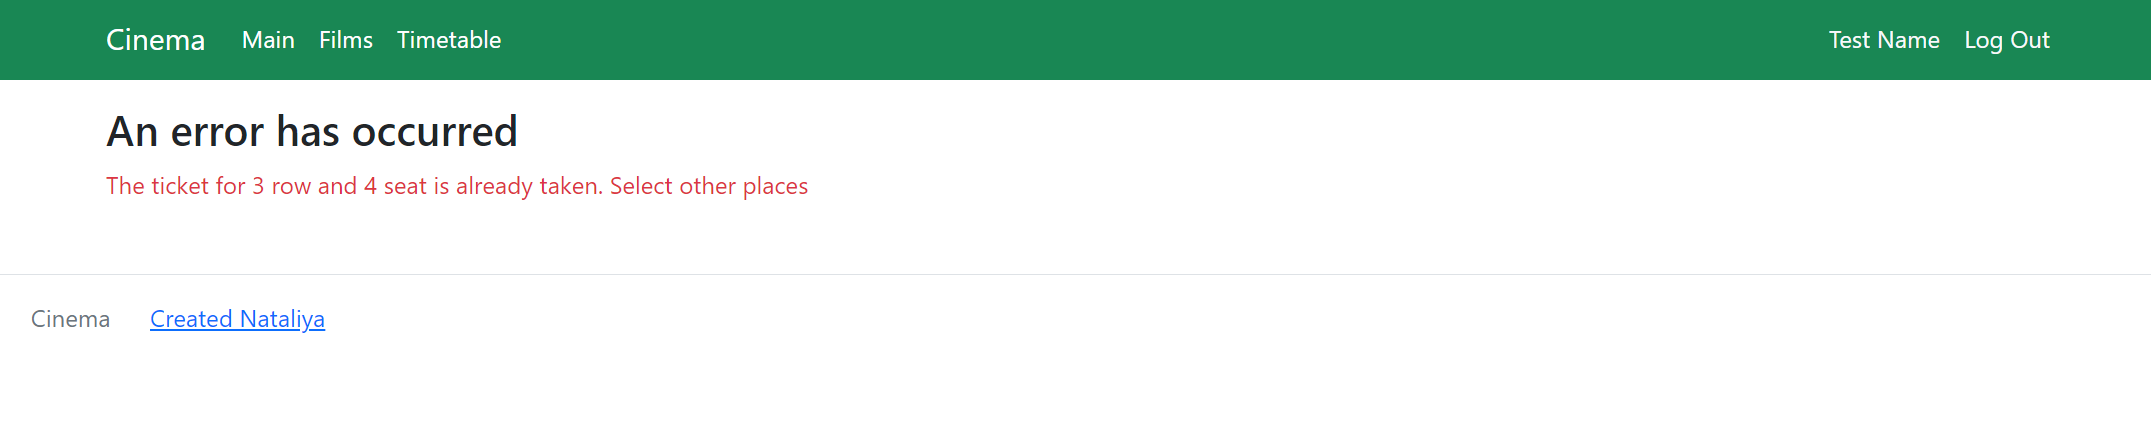
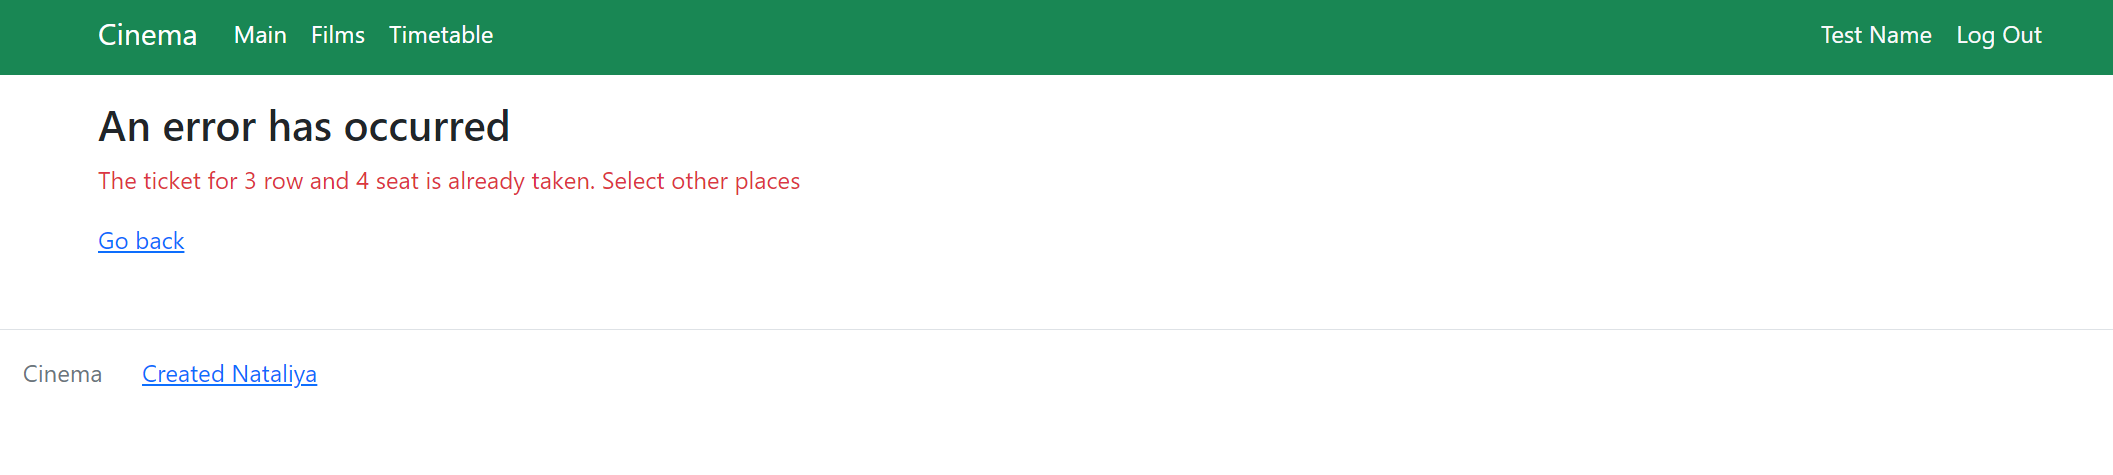
replace PostMapping buy method, change redirect page

diff --git a/src/main/resources/templates/errors/409.html b/src/main/resources/templates/errors/409.html
@@ -9,7 +9,7 @@
     <script src="https://cdn.jsdelivr.net/npm/@popperjs/core@2.11.6/dist/umd/popper.min.js" integrity="sha384-oBqDVmMz9ATKxIep9tiCxS/Z9fNfEXiDAYTujMAeBAsjFuCZSmKbSSUnQlmh/jp3" crossorigin="anonymous"></script>
     <script src="https://cdn.jsdelivr.net/npm/bootstrap@5.2.3/dist/js/bootstrap.min.js" integrity="sha384-cuYeSxntonz0PPNlHhBs68uyIAVpIIOZZ5JqeqvYYIcEL727kskC66kF92t6Xl2V" crossorigin="anonymous"></script>
 
-    <title>Error 404</title>
+    <title>Error 409</title>
 </head>
 <body>
 <div class="container-fluid p-0">
@@ -17,6 +17,7 @@
     <div class="container">
         <h3 class="mt-3">An error has occurred</h3>
         <p class="text-danger" th:text="${message}"></p>
+        <a href="javascript:history.back()">Go back</a>
     </div>
     <footer th:insert="blocks/footer :: footer"></footer>
 </div>

diff --git a/src/main/resources/templates/users/register.html b/src/main/resources/templates/users/register.html
@@ -21,6 +21,9 @@
     <header th:insert="blocks/header :: header"></header>
     <div class="container">
         <form class="mt-3" th:action="@{/users/register}" method="post" enctype="multipart/form-data">
+            <div class="mb-3" th:if="${error}">
+                <p class="text-danger" th:text="${error}"></p>
+            </div>
             <div class="mb-3">
                 <label for="fullName" class="form-label"><b>Full name</b></label>
                 <input type="text" class="form-control" id="fullName" name="fullName" placeholder="For example, Anna" required>

diff --git a/src/main/resources/templates/timetable/one.html b/src/main/resources/templates/timetable/one.html
@@ -19,7 +19,7 @@
 <div class="container-fluid p-0">
     <header th:insert="blocks/header :: header"></header>
     <div class="container">
-        <form class="mt-3" th:action="@{/timetable/buy}" method="post" th:object="${ticket}"
+        <form class="mt-3" th:action="@{/tickets/buy}" method="post" th:object="${ticket}"
               enctype="multipart/form-data">
             <div class="row">
                 <div class="col-md-6">

diff --git a/src/test/java/ru/job4j/cinema/controller/FilmSessionControllerTest.java b/src/test/java/ru/job4j/cinema/controller/FilmSessionControllerTest.java
@@ -2,11 +2,9 @@ package ru.job4j.cinema.controller;
 
 import org.junit.jupiter.api.BeforeEach;
 import org.junit.jupiter.api.Test;
-import org.mockito.ArgumentCaptor;
 import org.springframework.ui.ConcurrentModel;
 import ru.job4j.cinema.dto.FilmSessionDto;
 import ru.job4j.cinema.model.FilmSession;
-import ru.job4j.cinema.model.Ticket;
 import ru.job4j.cinema.service.FilmService;
 import ru.job4j.cinema.service.FilmSessionService;
 import ru.job4j.cinema.service.HallService;
@@ -66,39 +64,6 @@ public class FilmSessionControllerTest {
 
         assertThat(view).isEqualTo("timetable/one");
         assertThat(actualFilmSessions).isEqualTo(filmSession);
-    }
-
-    @Test
-    public void whenPostFilmSessionThenSaveTicketAndRedirectToTicketsIdPage() throws Exception {
-        var ticket = new Ticket(1, 1, 1, 1, 1);
-        var ticketArgumentCaptor = ArgumentCaptor.forClass(Ticket.class);
-        when(ticketService.save(ticketArgumentCaptor.capture()))
-                .thenReturn(Optional.of(ticket));
-
-        var model = new ConcurrentModel();
-        var view = filmSessionController.buy(model, ticket);
-        var actualTicket = ticketArgumentCaptor.getValue();
-
-        assertThat(view).isEqualTo(String.format("redirect:/tickets/%d", ticket.getId()));
-        assertThat(actualTicket).isEqualTo(ticket);
-    }
-
-    @Test
-    public void whenSomeExceptionThrownUponSeatIsTakenAndThenGetErrorPageWithMessage() {
-        var ticket = new Ticket(1, 1, 1, 2, 1);
-
-        var expectedException = new RuntimeException(
-                String.format(
-                        "The ticket for %d row and %d seat is already taken. Select other places",
-                        ticket.getRowNumber(), ticket.getPlaceNumber()));
-        when(filmSessionService.findById(1)).thenThrow(expectedException);
-
-        var model = new ConcurrentModel();
-        var view = filmSessionController.buy(model, ticket);
-        var actualExceptionMessage = model.getAttribute("message");
-
-        assertThat(view).isEqualTo("errors/404");
-        assertThat(actualExceptionMessage).isEqualTo(expectedException.getMessage());
     }
 
     @Test

diff --git a/src/test/java/ru/job4j/cinema/controller/TicketControllerTest.java b/src/test/java/ru/job4j/cinema/controller/TicketControllerTest.java
@@ -2,6 +2,7 @@ package ru.job4j.cinema.controller;
 
 import org.junit.jupiter.api.BeforeEach;
 import org.junit.jupiter.api.Test;
+import org.mockito.ArgumentCaptor;
 import org.springframework.ui.ConcurrentModel;
 import ru.job4j.cinema.model.Ticket;
 import ru.job4j.cinema.service.FilmSessionService;
@@ -49,6 +50,39 @@ public class TicketControllerTest {
         var actualExceptionMessage = model.getAttribute("message");
 
         assertThat(view).isEqualTo("errors/404");
+        assertThat(actualExceptionMessage).isEqualTo(expectedException.getMessage());
+    }
+
+    @Test
+    public void whenPostFilmSessionThenSaveTicketAndRedirectToTicketsIdPage() {
+        var ticket = new Ticket(1, 1, 1, 1, 1);
+        var ticketArgumentCaptor = ArgumentCaptor.forClass(Ticket.class);
+        when(ticketService.save(ticketArgumentCaptor.capture()))
+                .thenReturn(Optional.of(ticket));
+
+        var model = new ConcurrentModel();
+        var view = ticketController.buy(model, ticket);
+        var actualTicket = ticketArgumentCaptor.getValue();
+
+        assertThat(view).isEqualTo(String.format("redirect:/tickets/%d", ticket.getId()));
+        assertThat(actualTicket).isEqualTo(ticket);
+    }
+
+    @Test
+    public void whenSomeExceptionThrownUponSeatIsTakenAndThenGetErrorPageWithMessage() {
+        var ticket = new Ticket(1, 1, 1, 2, 1);
+
+        var expectedException = new RuntimeException(
+                String.format(
+                        "The ticket for %d row and %d seat is already taken. Select other places",
+                        ticket.getRowNumber(), ticket.getPlaceNumber()));
+        when(filmSessionService.findById(1)).thenThrow(expectedException);
+
+        var model = new ConcurrentModel();
+        var view = ticketController.buy(model, ticket);
+        var actualExceptionMessage = model.getAttribute("message");
+
+        assertThat(view).isEqualTo("errors/409");
         assertThat(actualExceptionMessage).isEqualTo(expectedException.getMessage());
     }
 }

diff --git a/src/main/java/ru/job4j/cinema/controller/TicketController.java b/src/main/java/ru/job4j/cinema/controller/TicketController.java
@@ -2,9 +2,8 @@ package ru.job4j.cinema.controller;
 
 import org.springframework.stereotype.Controller;
 import org.springframework.ui.Model;
-import org.springframework.web.bind.annotation.GetMapping;
-import org.springframework.web.bind.annotation.PathVariable;
-import org.springframework.web.bind.annotation.RequestMapping;
+import org.springframework.web.bind.annotation.*;
+import ru.job4j.cinema.model.Ticket;
 import ru.job4j.cinema.service.FilmSessionService;
 import ru.job4j.cinema.service.TicketService;
 
@@ -32,5 +31,17 @@ public class TicketController {
         filmSessionOptional.ifPresent(filmSession -> model.addAttribute(
                 "filmSession", filmSession));
         return "tickets/one";
+    }
+
+    @PostMapping("/buy")
+    public String buy(Model model, @ModelAttribute Ticket ticket) {
+        var savedTicket = ticketService.save(ticket);
+        if (savedTicket.isEmpty()) {
+            model.addAttribute("message", String.format(
+                    "The ticket for %d row and %d seat is already taken. Select other places",
+                    ticket.getRowNumber(), ticket.getPlaceNumber()));
+            return "errors/409";
+        }
+        return String.format("redirect:/tickets/%d", savedTicket.get().getId());
     }
 }

diff --git a/src/main/java/ru/job4j/cinema/controller/UserController.java b/src/main/java/ru/job4j/cinema/controller/UserController.java
@@ -31,8 +31,9 @@ public class UserController {
     public String register(Model model, @ModelAttribute User user) {
         var savedUser = userService.save(user);
         if (savedUser.isEmpty()) {
-            model.addAttribute("message", "User with this email already exists");
-            return "errors/404";
+            model.addAttribute("error", "User with this email already exists");
+            user.setFullName("Guest");
+            return "users/register";
         }
         return "redirect:/index";
     }
@@ -47,6 +48,7 @@ public class UserController {
         var userOptional = userService.findByEmailAndPassword(user.getEmail(), user.getPassword());
         if (userOptional.isEmpty()) {
             model.addAttribute("error", "Wrong email or password");
+            user.setFullName("Guest");
             return "users/login";
         }
         var session = request.getSession();

diff --git a/src/main/java/ru/job4j/cinema/controller/FilmSessionController.java b/src/main/java/ru/job4j/cinema/controller/FilmSessionController.java
@@ -46,16 +46,4 @@ public class FilmSessionController {
         filmOptional.ifPresent(film -> model.addAttribute("film", film));
         return "timetable/one";
     }
-
-    @PostMapping("/buy")
-    public String buy(Model model, @ModelAttribute Ticket ticket) {
-        var savedTicket = ticketService.save(ticket);
-        if (savedTicket.isEmpty()) {
-            model.addAttribute("message", String.format(
-                    "The ticket for %d row and %d seat is already taken. Select other places",
-                    ticket.getRowNumber(), ticket.getPlaceNumber()));
-            return "errors/404";
-        }
-        return String.format("redirect:/tickets/%d", savedTicket.get().getId());
-    }
 }

diff --git a/src/test/java/ru/job4j/cinema/controller/UserControllerTest.java b/src/test/java/ru/job4j/cinema/controller/UserControllerTest.java
@@ -55,9 +55,9 @@ class UserControllerTest {
 
         var model = new ConcurrentModel();
         var view = userController.register(model, new User());
-        var actualExceptionMessage = model.getAttribute("message");
+        var actualExceptionMessage = model.getAttribute("error");
 
-        assertThat(view).isEqualTo("errors/404");
+        assertThat(view).isEqualTo("users/register");
         assertThat(actualExceptionMessage).isEqualTo(expectedException.getMessage());
     }
 
